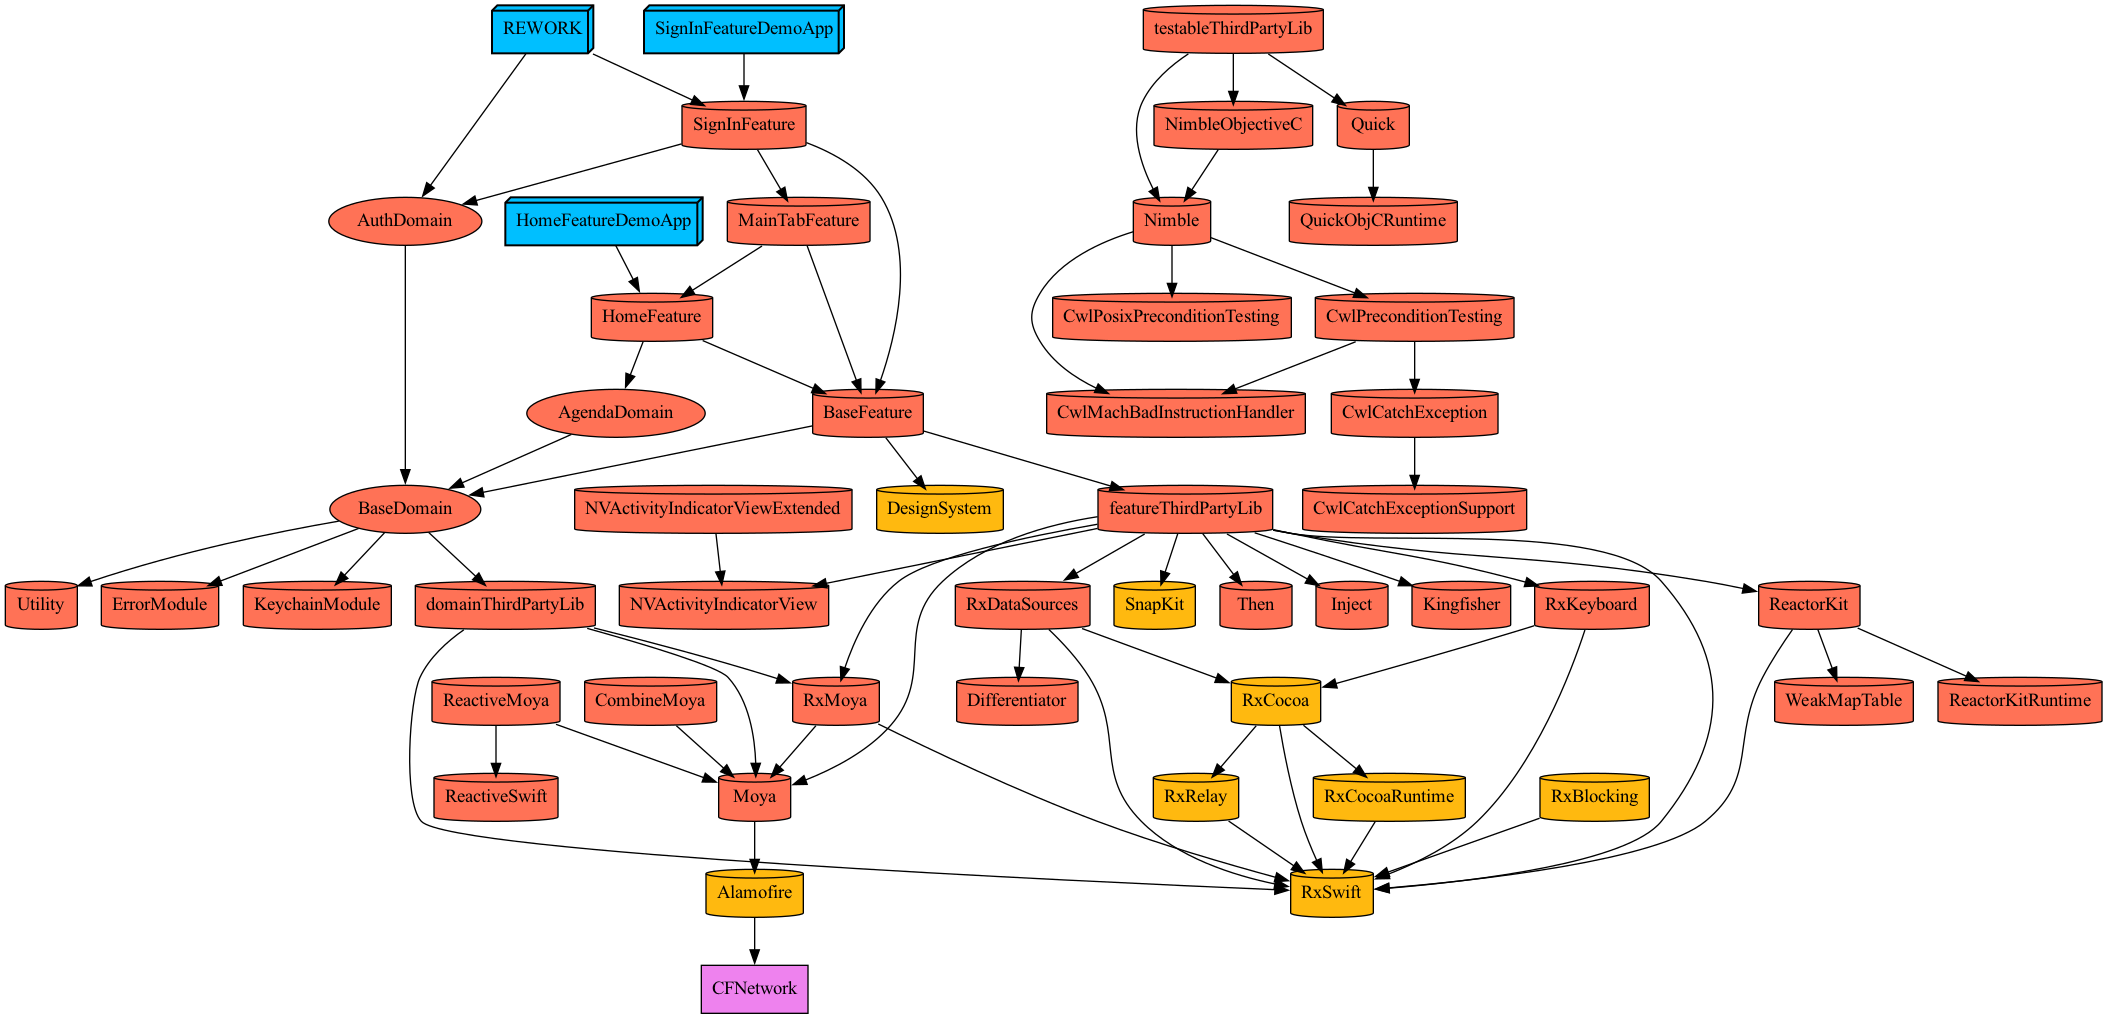
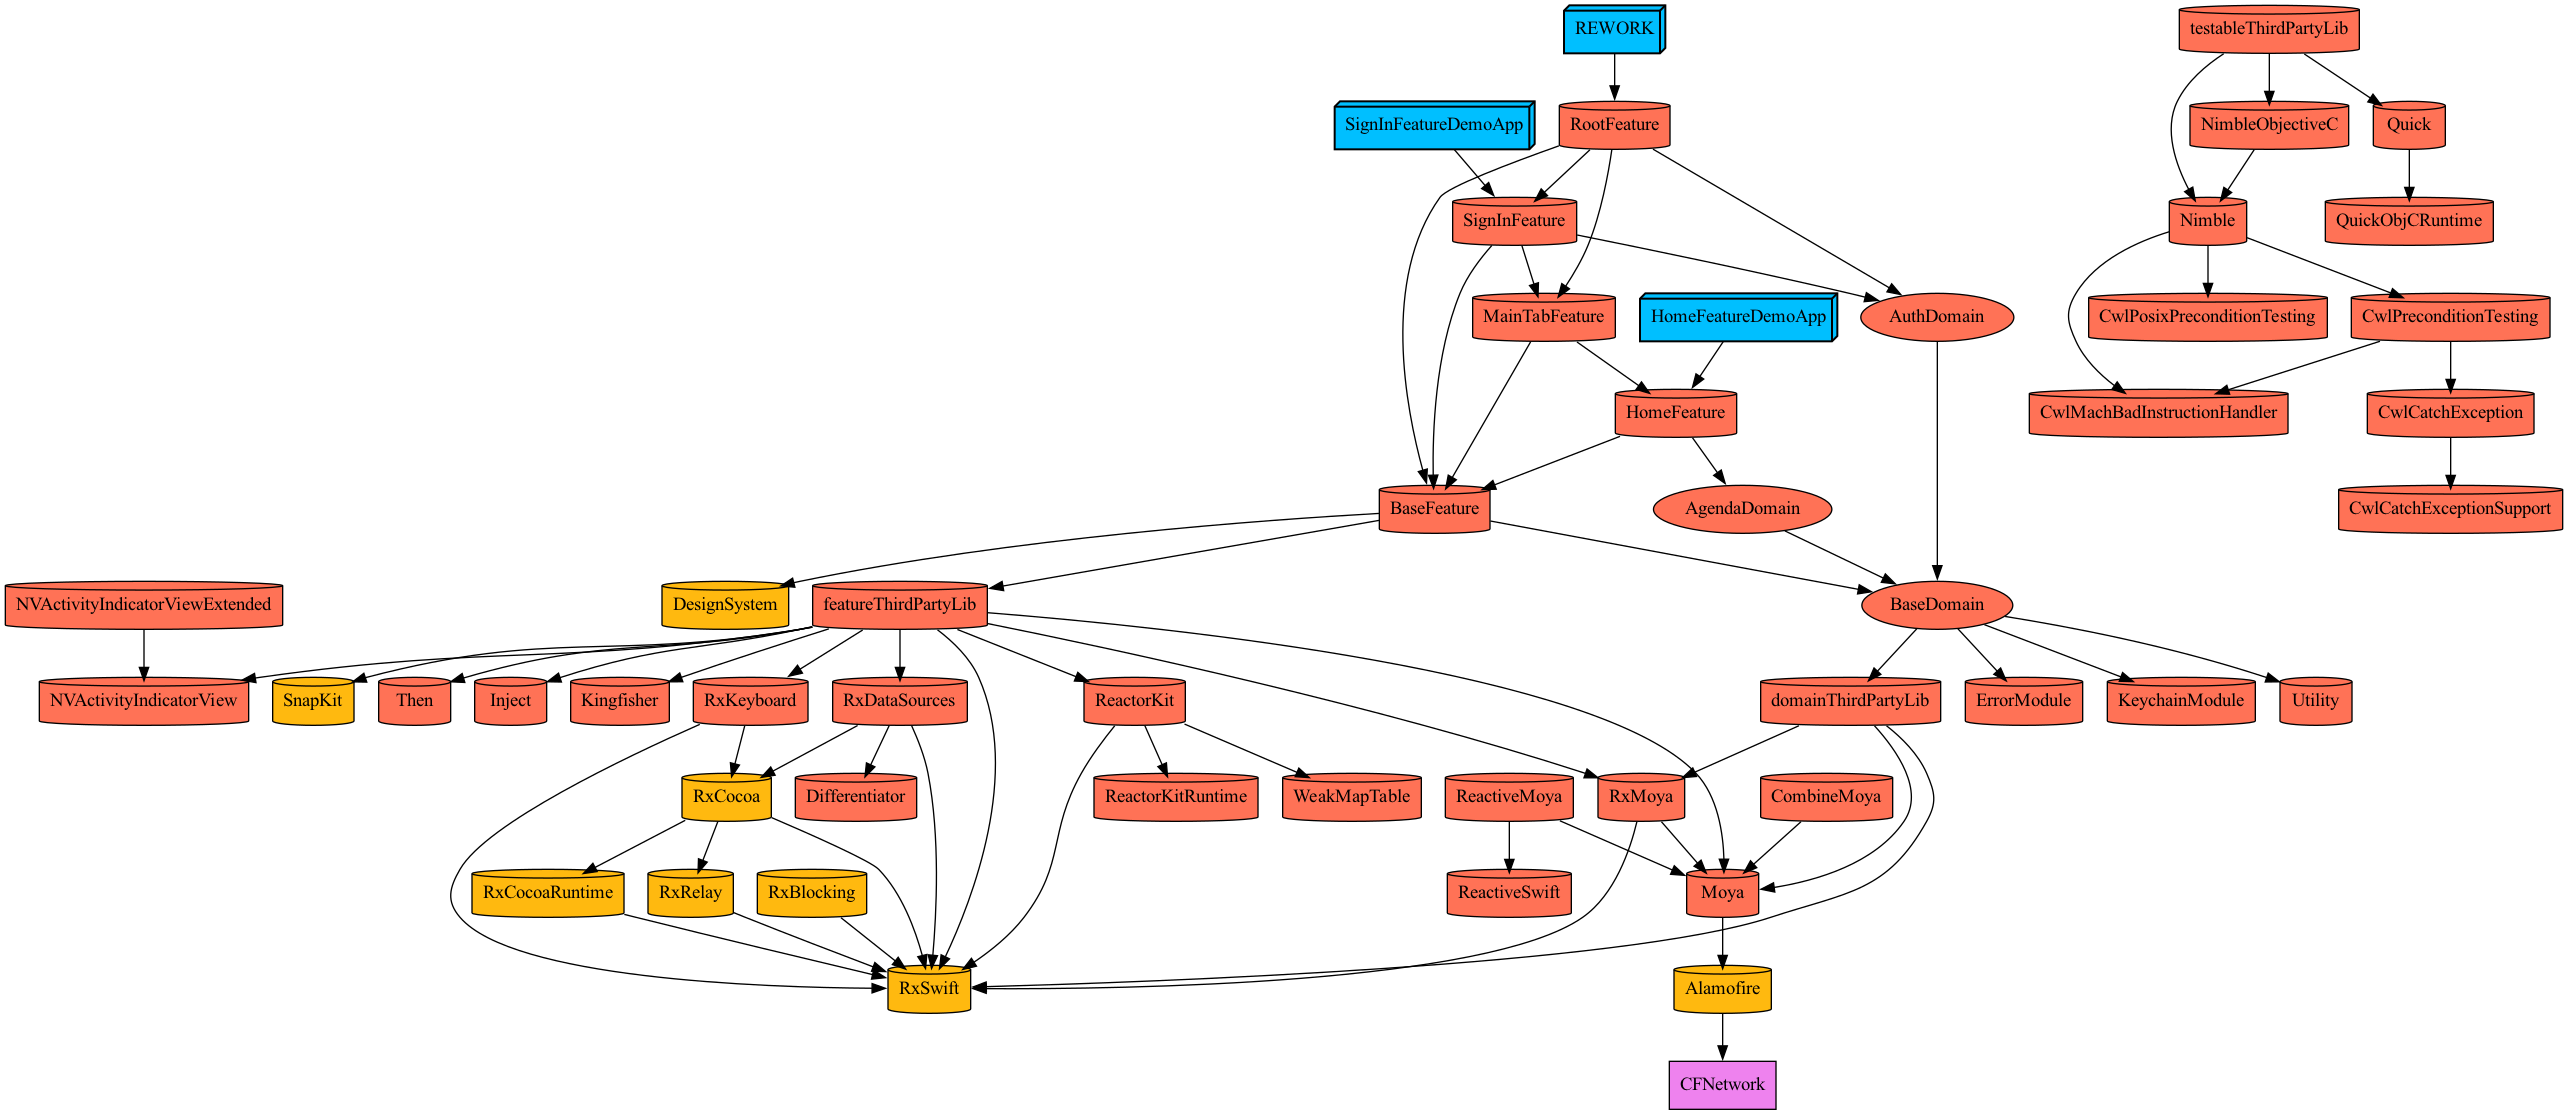
FEAT :: RootFeature 생성
RootFeature가 진입점, 로그인화면/메인탭화면 분기

diff --git a/Projects/Features/RootFeature/Sources/RootReactor.swift b/Projects/Features/RootFeature/Sources/RootReactor.swift
@@ -1,0 +1,76 @@
+import ReactorKit
+import Foundation
+import RxCocoa
+import AuthDomain
+import KeychainModule
+
+public final class RootReactor: Reactor {
+    
+    
+    public enum Action {
+        case viewDidLoad
+        case changeLoginState(Bool)
+    }
+    
+    public enum Mutation {
+        case loginStatus(Bool)
+    }
+    
+    public struct State {
+        @Pulse var isLoggedIn: Bool?
+    }
+    
+    public var initialState: State
+    private let disposeBag = DisposeBag()
+    
+    private let checkIsExistAccessTokenUseCase: CheckIsExistAccessTokenUseCase
+    
+    public init(
+        checkIsExistAccessTokenUseCase: CheckIsExistAccessTokenUseCase
+    ) {
+        self.checkIsExistAccessTokenUseCase = checkIsExistAccessTokenUseCase
+        self.initialState = State()
+        setNotification()
+    }
+    
+    public func mutate(action: Action) -> Observable<Mutation> {
+        switch action {
+        case .viewDidLoad:
+            return ViewDidLoad()
+            
+        case let .changeLoginState(isLoggedIn):
+            return ChangeLoginState(isLoggedIn)
+        }
+    }
+    
+    public func reduce(state: State, mutation: Mutation) -> State {
+        var newState = state
+        switch mutation {
+        case .loginStatus(let isLoggedIn):
+            newState.isLoggedIn = isLoggedIn
+        }
+        return newState
+    }
+    
+    private func ViewDidLoad() -> Observable<Mutation> {
+        return checkIsExistAccessTokenUseCase.execute()
+            .catchAndReturn(false)
+            .map { Mutation.loginStatus($0) }
+            .asObservable()
+    }
+    
+    private func ChangeLoginState(_ isLoggedIn: Bool) -> Observable<Mutation> {
+        return .just(.loginStatus(isLoggedIn))
+    }
+    
+}
+
+private extension RootReactor {
+    func setNotification() {
+        NotificationCenter.default.rx.notification(.loginStateDidChanged)
+            .compactMap { $0.object as? Bool }
+            .bind(with: self) { owner, isLoggedIn in
+                owner.action.onNext(.changeLoginState(isLoggedIn))
+            }.disposed(by: disposeBag)
+    }
+}

diff --git a/Projects/Features/RootFeature/Sources/RootViewController.swift b/Projects/Features/RootFeature/Sources/RootViewController.swift
@@ -1,0 +1,51 @@
+import BaseFeature
+import SignInFeature
+import HomeFeature
+import MainTabFeature
+import AuthDomain
+import KeychainModule
+import RxSwift
+import UIKit
+import SnapKit
+import Then
+
+public final class RootViewController: BaseReactorViewController<RootReactor>, UINavigationControllerDelegate {
+    
+    public override func viewDidLoad() {
+        super.viewDidLoad()
+        self.view.backgroundColor = .white
+        self.navigationController?.delegate = self
+        self.navigationController?.setNavigationBarHidden(true, animated: false)
+        reactor?.action.onNext(.viewDidLoad)
+    }
+    
+    public override func bindState(reactor: RootReactor) {
+        reactor.pulse(\.$isLoggedIn)
+            .compactMap { $0 }
+            .bind(with: self, onNext: { owner, isLoggedIn in
+                if isLoggedIn {
+                    self.showMainTabViewController()
+                } else {
+                    self.showSignInViewController()
+                }
+            }).disposed(by: disposeBag)
+            
+    }
+    
+    public override func bindAction(reactor: RootReactor) {
+        
+    }
+    
+    private func showMainTabViewController() {
+        self.navigationController?.popToRootViewController(animated: false)
+        let mainTabVC = MainTabViewController(reactor: MainTabReactor())
+        self.navigationController?.pushViewController(mainTabVC, animated: false)
+    }
+    
+    private func showSignInViewController() {
+        self.navigationController?.popToRootViewController(animated: false)
+        let signInVC = SignInViewController()
+        self.navigationController?.pushViewController(signInVC, animated: false)
+    }
+    
+}

diff --git a/Projects/App/Sources/SceneDelegate.swift b/Projects/App/Sources/SceneDelegate.swift
@@ -7,11 +7,9 @@
 //
 
 import UIKit
-import SignInFeature
-import HomeFeature
-import MainTabFeature
 import AuthDomain
 import KeychainModule
+import RootFeature
 import RxSwift
 
 class SceneDelegate: UIResponder, UIWindowSceneDelegate {
@@ -30,18 +28,9 @@ class SceneDelegate: UIResponder, UIWindowSceneDelegate {
         let remote = RemoteAuthDataSourceImpl(keychain: keychain)
         let repository = AuthRepositoryImpl(localAuthDataSource: local, remoteAuthDataSource: remote)
         let checkIsExistAccessTokenUseCase = CheckIsExistAccessTokenUseCaseImpl(authRepository: repository)
-        var entryViewController: UIViewController = SignInViewController()
-        checkIsExistAccessTokenUseCase.execute()
-            .asObservable()
-            .flatMap { isExist in
-                return isExist ? Observable.just(true) : Observable.just(false)
-            }
-            .subscribe { isExist in
-                entryViewController = isExist ? MainTabViewController(reactor: MainTabReactor()) : SignInViewController()
-            }
-            .disposed(by: disposeBag)
+        let reactor = RootReactor(checkIsExistAccessTokenUseCase: checkIsExistAccessTokenUseCase)
         
-        let vc = UINavigationController(rootViewController: MainTabViewController(reactor: MainTabReactor()))
+        let vc = UINavigationController(rootViewController: RootViewController(reactor: reactor))
         self.window?.rootViewController = vc
         self.window?.makeKeyAndVisible()
     }

diff --git a/Projects/Features/RootFeature/Derived/Sources/TuistBundle+RootFeature.swift b/Projects/Features/RootFeature/Derived/Sources/TuistBundle+RootFeature.swift
@@ -1,0 +1,40 @@
+// swiftlint:disable all
+// swift-format-ignore-file
+// swiftformat:disable all
+import Foundation
+
+// MARK: - Swift Bundle Accessor
+
+private class BundleFinder {}
+
+extension Foundation.Bundle {
+/// Since RootFeature is a staticFramework, the bundle containing the resources is copied into the final product.
+static let module: Bundle = {
+    let bundleName = "RootFeature_RootFeature"
+
+    let candidates = [
+        Bundle.main.resourceURL,
+        Bundle(for: BundleFinder.self).resourceURL,
+        Bundle.main.bundleURL,
+    ]
+
+    for candidate in candidates {
+        let bundlePath = candidate?.appendingPathComponent(bundleName + ".bundle")
+        if let bundle = bundlePath.flatMap(Bundle.init(url:)) {
+            return bundle
+        }
+    }
+    fatalError("unable to find bundle named RootFeature_RootFeature")
+}()
+}
+
+// MARK: - Objective-C Bundle Accessor
+
+@objc
+public class RootFeatureResources: NSObject {
+@objc public class var bundle: Bundle {
+    return .module
+}
+}
+// swiftlint:enable all
+// swiftformat:enable all

diff --git a/Projects/Features/RootFeature/Project.swift b/Projects/Features/RootFeature/Project.swift
@@ -1,0 +1,31 @@
+import ProjectDescription
+import ProjectDescriptionHelpers
+import DependencyPlugin
+import EnvironmentPlugin
+
+let project = Project.module(
+    name: ModulePaths.Feature.RootFeature.rawValue,
+    packages: [],
+    targets: [
+        .init(name: ModulePaths.Feature.RootFeature.rawValue,
+              destinations: .iOS,
+              product: .staticFramework,
+              productName: nil,
+              bundleId: "\(env.organizationName).\(ModulePaths.Feature.RootFeature.rawValue)",
+              deploymentTargets: env.deploymentTargets,
+              infoPlist: .default,
+              sources: ["Sources/**"],
+              resources: ["Resources/**"],
+              entitlements: nil,
+              scripts: [],
+              dependencies: [
+                .Project.Features.BaseFeature,
+                .Project.Features.SignInFeature,
+                .Project.Features.MainTabFeature,
+                .Project.Domain.AuthDomain
+              ],
+              settings: nil
+             )
+    ]
+)
+

diff --git a/Projects/Features/SigninFeature/Sources/ViewControllers/SignInViewController.swift b/Projects/Features/SigninFeature/Sources/ViewControllers/SignInViewController.swift
@@ -192,6 +192,11 @@ extension SignInViewController: View {
             .bind(to: reactor.action)
             .disposed(by: disposeBag)
         
+        loginButton.rx.tap
+            .map { Reactor.Action.loginButtonDidTap }
+            .bind(to: reactor.action)
+            .disposed(by: disposeBag)
+        
         signupButton.rx.tap
             .withUnretained(self)
             .subscribe(onNext: { owner, _ in
@@ -227,6 +232,7 @@ extension SignInViewController: View {
             .compactMap { $0 }
             .bind(with: self) { owner, isLoggedIn in
                 print("로그인 버튼 눌림", isLoggedIn)
+                NotificationCenter.default.post(name: .loginStateDidChanged, object: true)
             }
             .disposed(by: disposeBag)
     }

diff --git a/Projects/Features/SigninFeature/Sources/ViewControllers/SignUpAfterViewController.swift b/Projects/Features/SigninFeature/Sources/ViewControllers/SignUpAfterViewController.swift
@@ -112,7 +112,13 @@ extension SignUpAfterViewController: View {
         returnToLoginButton.rx.tap
             .withUnretained(self)
             .subscribe(onNext: { owner, _ in
-                owner.navigationController?.popToRootViewController(animated: true)
+                if let presentingViewControllers = owner.navigationController?.viewControllers {
+                    for viewController in presentingViewControllers {
+                        if viewController is SignInViewController {
+                            owner.navigationController?.popToViewController(viewController, animated: true)
+                        }
+                    }
+                }
             })
             .disposed(by: disposeBag)
     }

diff --git a/Projects/Features/MainTabFeature/Sources/ViewController/MainTabViewController.swift b/Projects/Features/MainTabFeature/Sources/ViewController/MainTabViewController.swift
@@ -88,7 +88,8 @@ public final class MainTabViewController: BaseReactorViewController<MainTabReact
 extension MainTabViewController: TabItemDelegate {
     public func tabItemDidTap(tabItemType: TabItemType) {
         print("tabItemDidTap:", tabItemType.title)
-        switchToViewController(tabItemType)
+        //switchToViewController(tabItemType)
+        NotificationCenter.default.post(name: .loginStateDidChanged, object: false)
     }
     
     private func switchToViewController(_ tabItemType: TabItemType) {

diff --git a/Plugin/DependencyPlugin/ProjectDescriptionHelpers/Dependency+Project.swift b/Plugin/DependencyPlugin/ProjectDescriptionHelpers/Dependency+Project.swift
@@ -11,6 +11,7 @@ public extension TargetDependency {
 
 public extension TargetDependency.Project.Features {
     static let BaseFeature = TargetDependency.feature(target: .BaseFeature)
+    static let RootFeature = TargetDependency.feature(target: .RootFeature)
     static let CommonFeature = TargetDependency.feature(target: .CommonFeature)
     static let SignInFeature = TargetDependency.feature(target: .SignInFeature)
     static let MainTabFeature = TargetDependency.feature(target: .MainTabFeature)

diff --git a/Projects/App/Project.swift b/Projects/App/Project.swift
@@ -29,8 +29,9 @@ let targets: [Target] = [
           //entitlements: "Support/\(env.name).entitlements",
           scripts: [],
           dependencies: [
-            .Project.Features.SignInFeature,
-            .Project.Domain.AuthDomain
+            .Project.Features.RootFeature
+            //.Project.Features.SignInFeature,
+            //.Project.Domain.AuthDomain
           ],
           settings: .settings(
             base: env.baseSetting,

diff --git a/Plugin/DependencyPlugin/ProjectDescriptionHelpers/ModulePaths.swift b/Plugin/DependencyPlugin/ProjectDescriptionHelpers/ModulePaths.swift
@@ -22,6 +22,7 @@ extension ModulePaths: MicroTargetPathConvertable {
 public extension ModulePaths {
     enum Feature: String, MicroTargetPathConvertable {
         case BaseFeature
+        case RootFeature
         case SignInFeature
         case CommonFeature
         case MainTabFeature

diff --git a/Projects/Features/SigninFeature/Sources/ Reactor/SignInReactor.swift b/Projects/Features/SigninFeature/Sources/ Reactor/SignInReactor.swift
@@ -36,8 +36,7 @@ public final class SignInReactor: Reactor {
         self.initialState = .init(
             keyboardHeight: 0,
             email: "",
-            viewDidLoaded: false,
-            loggedIn: false
+            viewDidLoaded: false
         )
     }
     
